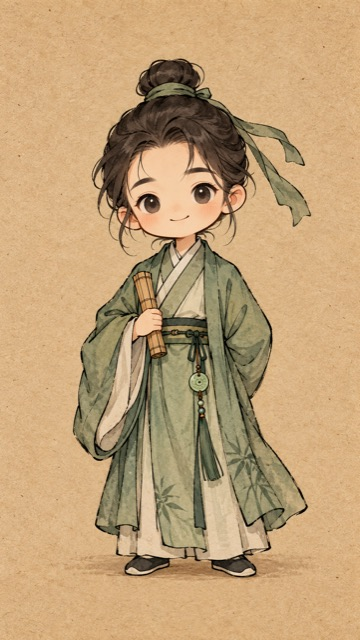
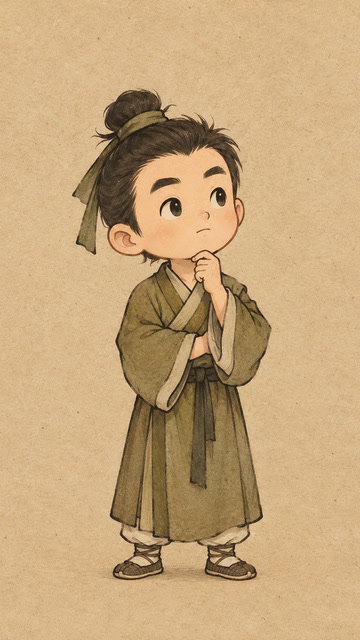
fix: align ancient wisdom video preset with reference

diff --git a/apps/web/src/lib/channel-presets.test.ts b/apps/web/src/lib/channel-presets.test.ts
@@ -66,6 +66,22 @@ describe("channel presets", () => {
     });
   });
 
+  it("the Đạo lý cổ phong preset matches the 30-second reference format", () => {
+    const settings = CHANNEL_PRESETS.find((preset) => preset.id === "dao-ly-co-phong")!.apply(DEFAULT_PROJECT_SETTINGS);
+    expect(settings).toMatchObject({
+      layoutTemplate: "paper-stage",
+      visualPreset: "chibi-co-phong",
+      aspectRatio: "9:16",
+      targetDurationSec: 30,
+      autoMusic: true,
+      captionHighlight: false,
+      hookTitle: false,
+      progressBar: false,
+      sceneSfx: false,
+      outroText: "",
+    });
+  });
+
   it("the illustrated video preset matches its realistic thumbnail and blurred renderer", () => {
     const settings = CHANNEL_PRESETS.find((preset) => preset.id === "video-minh-hoa")!.apply(DEFAULT_PROJECT_SETTINGS);
     expect(settings).toMatchObject({ layoutTemplate: "story-card", cardTheme: "blurred", visualPreset: "cinematic-color", aspectRatio: "9:16" });

diff --git a/apps/web/src/lib/channel-presets.ts b/apps/web/src/lib/channel-presets.ts
@@ -34,7 +34,7 @@ export const CHANNEL_PRESETS: Array<{ id: string; label: string; hint: string; a
     hint: "Nhân vật chibi cổ trang trên nền giấy kraft, giọng nam trầm, phụ đề nhỏ dưới nhân vật",
     // Đức Trí: median 107 Hz at 3.7 words/s, the closest to the reference short (99 Hz, 3.6 w/s); "triet-ly" measured
     // 145 Hz and read 14% slower.
-    apply: (s) => ({ ...withLayoutTemplate(s, "paper-stage"), style: "truyen-cam-hung", voice: "doc-truyen", voiceSpeed: 1 }),
+    apply: (s) => ({ ...withLayoutTemplate(s, "paper-stage"), style: "truyen-cam-hung", voice: "doc-truyen", voiceSpeed: 1, targetDurationSec: 30, autoMusic: true, captionHighlight: false, hookTitle: false, progressBar: false, sceneSfx: false, outroText: "" }),
   },
   {
     id: "truyen-chibi-kraft",
